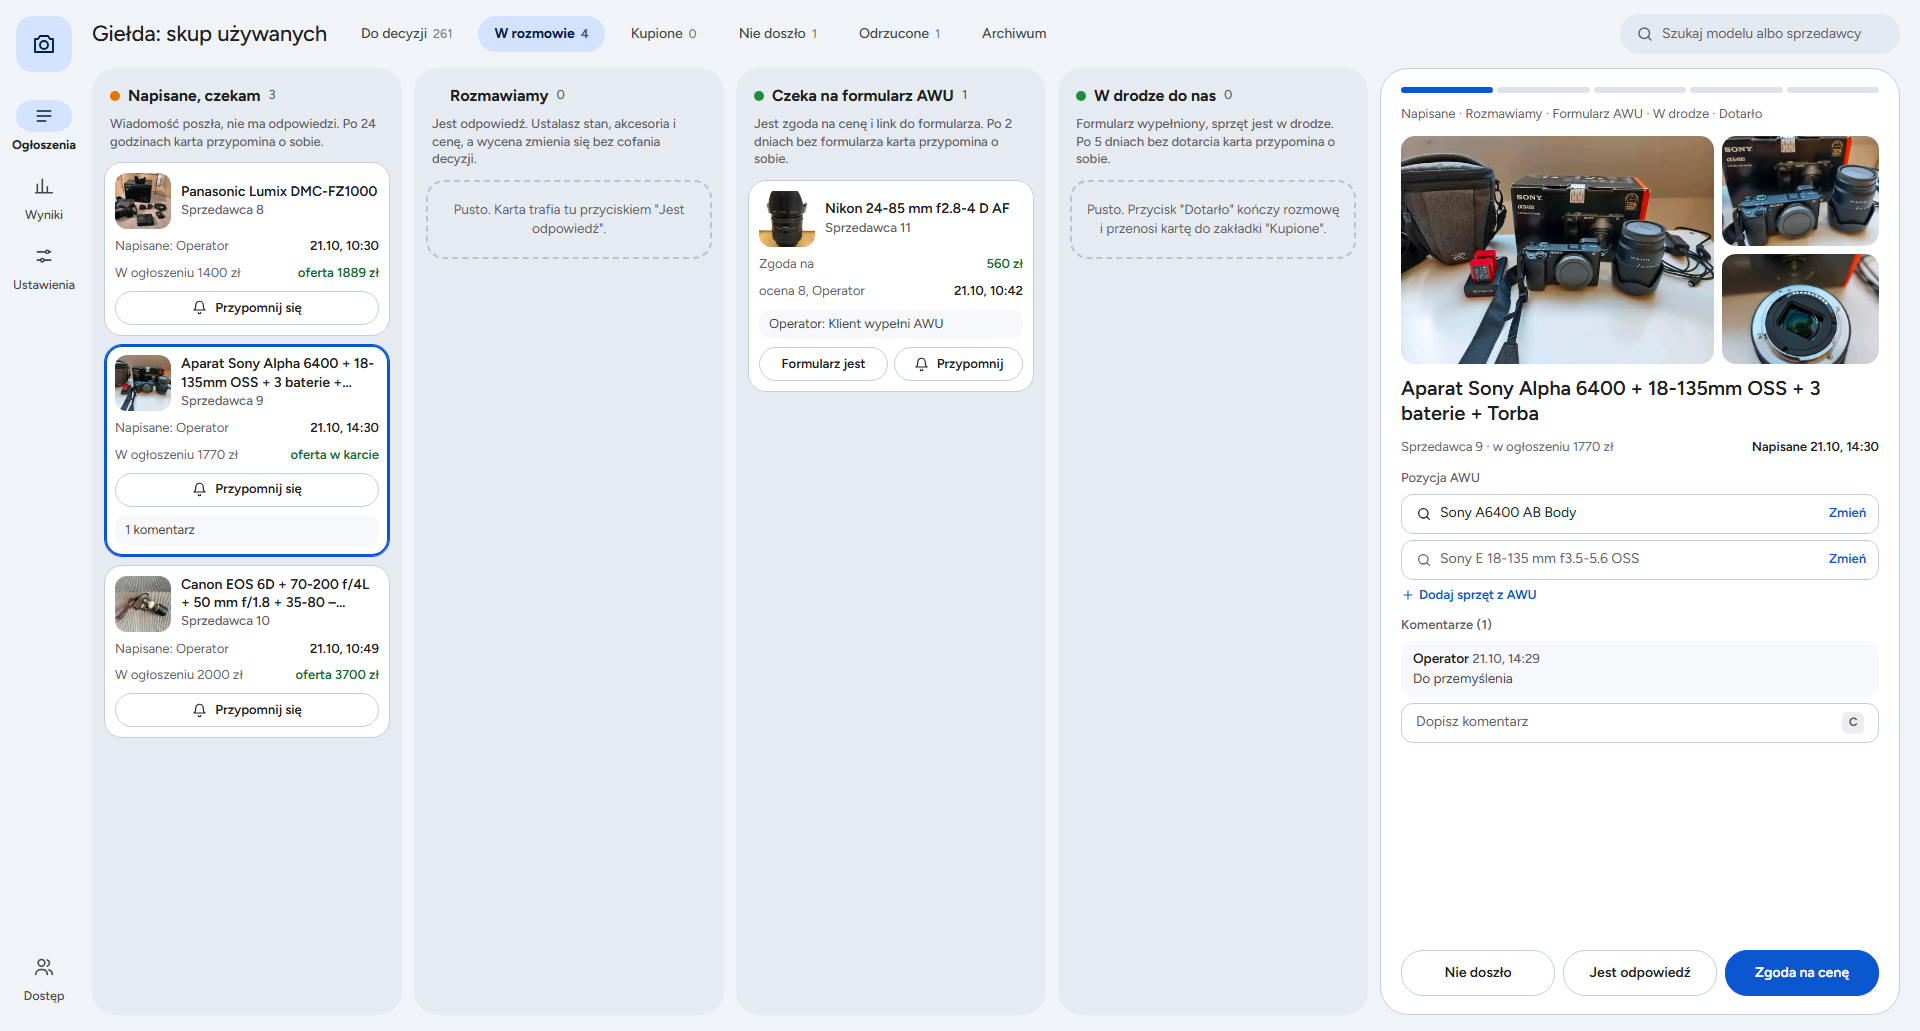
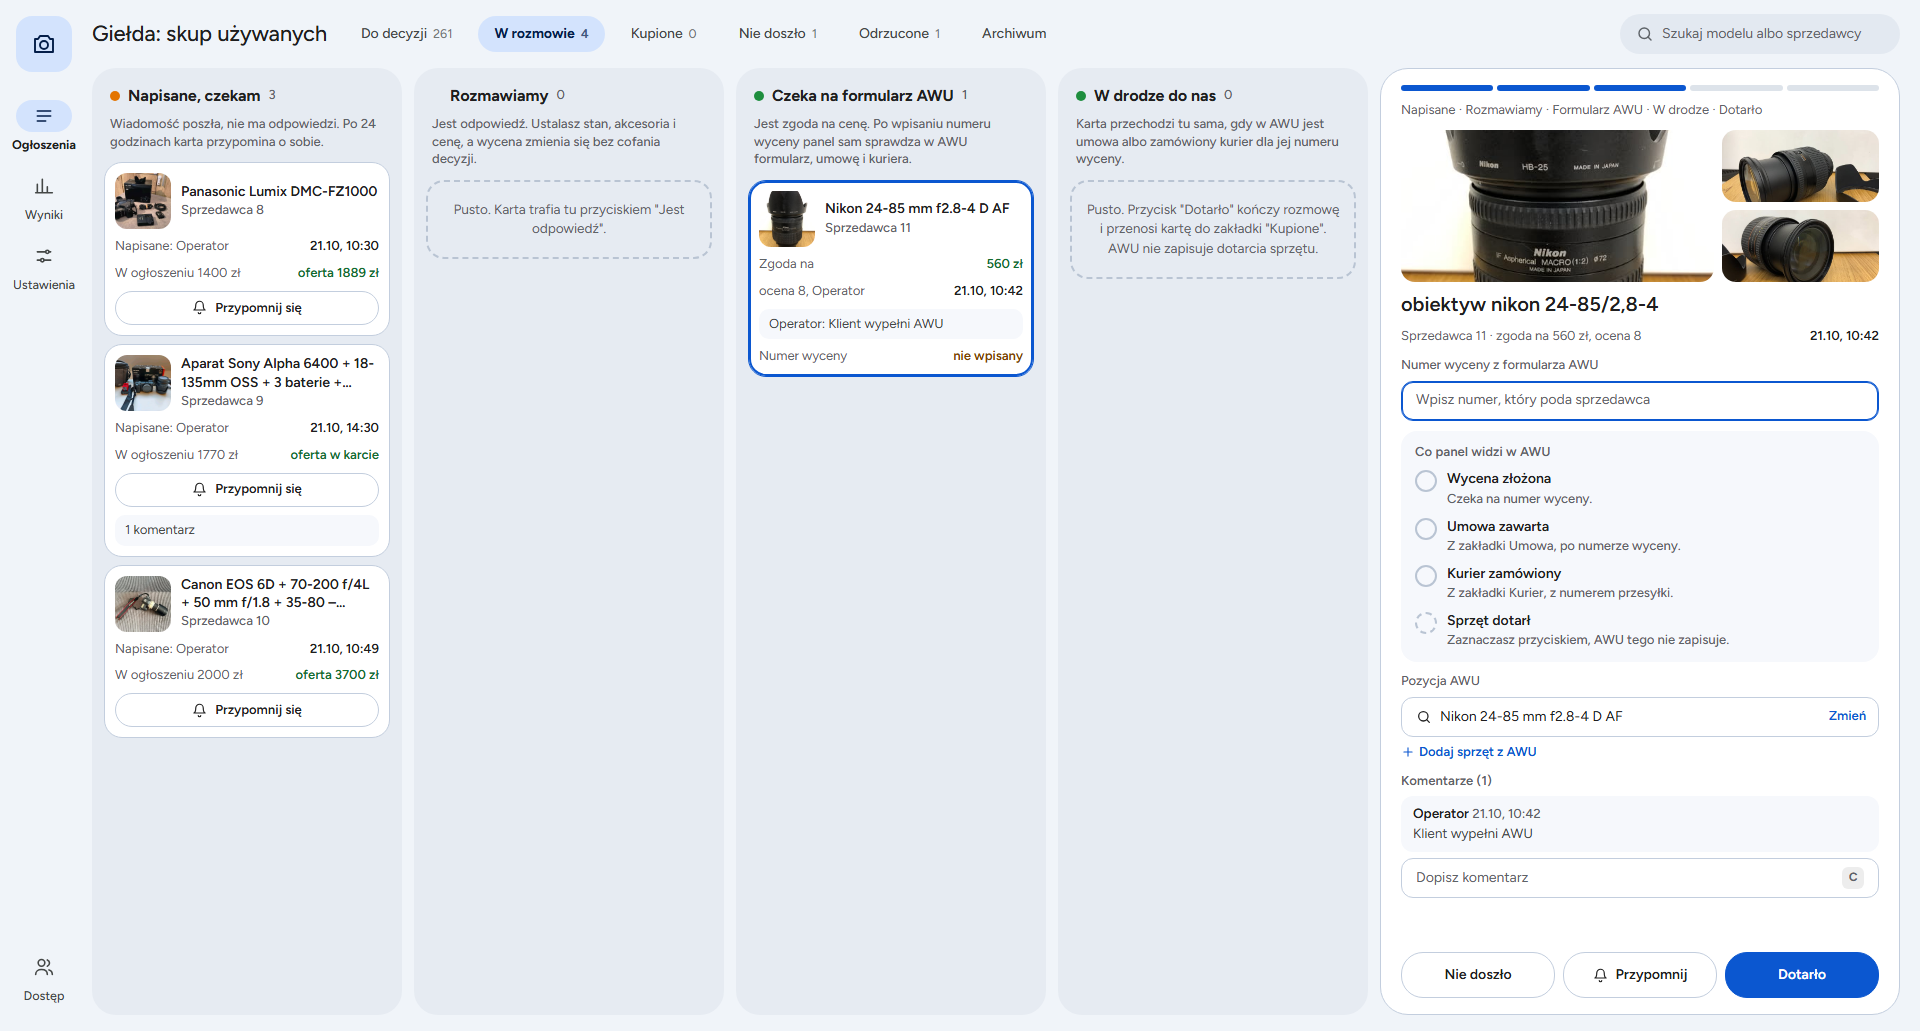
W rozmowie: numer wyceny w karcie i etapy odczytywane z AWU

diff --git a/R.html b/R.html
@@ -60,10 +60,14 @@ img{display:block;object-fit:cover}
 .kb-a{display:flex;gap:6px}.kb-a .btn{height:34px;font-size:13px;padding:0 10px;flex:1}
 .kb-k{font-size:13px;color:var(--t2);background:#F6F8FC;border-radius:10px;padding:6px 10px}
 .pus{border:2px dashed #B9C4D3;border-radius:18px;padding:18px 14px;text-align:center;color:var(--t3);font-size:13.5px;line-height:1.45}
-.szk{padding:18px 20px;display:flex;flex-direction:column;gap:12px;min-height:0}
-.szk .g2{display:grid;grid-template-columns:2fr 1fr;grid-template-rows:110px 110px;gap:8px}.szk .g2 img{width:100%;height:100%;border-radius:14px}.szk .g2 img:first-child{grid-row:1/3}
+.szk{padding:16px 20px;display:flex;flex-direction:column;gap:10px;min-height:0}
+.szk .g2{display:grid;grid-template-columns:2fr 1fr;grid-template-rows:72px 72px;gap:8px}.szk .g2 img{width:100%;height:100%;border-radius:14px}.szk .g2 img:first-child{grid-row:1/3}
 .szk h2{font-size:20px;font-weight:600;line-height:1.25}
 .etap{display:flex;gap:4px}.etap span{flex:1;height:6px;border-radius:3px;background:#DDE3EA}.etap span.on{background:var(--b)}
+.nw{display:flex;flex-direction:column;gap:6px}.nw .pole{border-color:var(--b);box-shadow:0 0 0 1px var(--b) inset;color:var(--t3)}
+.kaw{display:flex;flex-direction:column;gap:8px;padding:12px 14px;border-radius:16px;background:#F6F8FC}
+.ka{display:grid;grid-template-columns:22px 1fr;gap:10px;align-items:start}.ka b{font-weight:600;font-size:14px}
+.ka-i{width:22px;height:22px;border-radius:50%;border:2px solid #B9C4D3;display:grid;place-items:center;margin-top:1px}.ka-i.ok{background:var(--gj);border-color:var(--gj);color:var(--g)}.ka-i.r{border-style:dashed}
 .szk .akcje{margin-top:auto;display:grid;grid-template-columns:1fr 1fr 1fr;gap:8px}.szk .akcje .btn{height:46px;font-size:14px;padding:0 10px}
 </style></head><body><nav class="szyna"><div class="logo"><svg width="24" height="24" viewBox="0 0 24 24" fill="none" stroke="currentColor" stroke-width="1.9" stroke-linecap="round" stroke-linejoin="round"><path d="M3 7h3l2-3h8l2 3h3v13H3z"/><circle cx="12" cy="13" r="4"/></svg></div>
 <div class="sz on"><i><svg width="20" height="20" viewBox="0 0 24 24" fill="none" stroke="currentColor" stroke-width="1.9" stroke-linecap="round" stroke-linejoin="round"><path d="M4 6h16M4 12h16M4 18h10"/></svg></i>Ogłoszenia</div><div class="sz"><i><svg width="20" height="20" viewBox="0 0 24 24" fill="none" stroke="currentColor" stroke-width="1.9" stroke-linecap="round" stroke-linejoin="round"><path d="M4 20V10M10 20V4M16 20v-7M22 20H2"/></svg></i>Wyniki</div><div class="sz"><i><svg width="20" height="20" viewBox="0 0 24 24" fill="none" stroke="currentColor" stroke-width="1.9" stroke-linecap="round" stroke-linejoin="round"><path d="M4 7h10M18 7h2M4 17h4M12 17h8"/><circle cx="16" cy="7" r="2"/><circle cx="10" cy="17" r="2"/></svg></i>Ustawienia</div>
@@ -74,22 +78,29 @@ img{display:block;object-fit:cover}
 <div class="uk">
  <div class="tab">
  <section class="kol"><div class="kol-g"><span class="dot w"></span><b>Napisane, czekam</b><span class="k13">3</span></div><div class="k13 kol-o">Wiadomość poszła, nie ma odpowiedzi. Po 24 godzinach karta przypomina o sobie.</div><div class="kol-c"><div class="kb"><div class="kb-g"><img src="img/29514394138163940_0.jpg" alt=""><div class="kb-t"><div class="kb-n">Panasonic Lumix DMC-FZ1000</div>
-<div class="k13 ell">Sprzedawca 8</div></div></div><div class="kb-l"><span>Napisane: Operator</span><b>21.10, 10:30</b></div><div class="kb-l"><span>W ogłoszeniu 1400 zł</span><b class="g">oferta 1889 zł</b></div><div class="kb-a"><span class="btn"><svg width="15" height="15" viewBox="0 0 24 24" fill="none" stroke="currentColor" stroke-width="1.9" stroke-linecap="round" stroke-linejoin="round"><path d="M6 8a6 6 0 1 1 12 0c0 7 3 8 3 8H3s3-1 3-8M10 20a2 2 0 0 0 4 0"/></svg> Przypomnij się</span></div></div><div class="kb on"><div class="kb-g"><img src="img/29453777500892271_0.jpg" alt=""><div class="kb-t"><div class="kb-n">Aparat Sony Alpha 6400 + 18-135mm OSS + 3 baterie + Torba</div>
+<div class="k13 ell">Sprzedawca 8</div></div></div><div class="kb-l"><span>Napisane: Operator</span><b>21.10, 10:30</b></div><div class="kb-l"><span>W ogłoszeniu 1400 zł</span><b class="g">oferta 1889 zł</b></div><div class="kb-a"><span class="btn"><svg width="15" height="15" viewBox="0 0 24 24" fill="none" stroke="currentColor" stroke-width="1.9" stroke-linecap="round" stroke-linejoin="round"><path d="M6 8a6 6 0 1 1 12 0c0 7 3 8 3 8H3s3-1 3-8M10 20a2 2 0 0 0 4 0"/></svg> Przypomnij się</span></div></div><div class="kb"><div class="kb-g"><img src="img/29453777500892271_0.jpg" alt=""><div class="kb-t"><div class="kb-n">Aparat Sony Alpha 6400 + 18-135mm OSS + 3 baterie + Torba</div>
 <div class="k13 ell">Sprzedawca 9</div></div></div><div class="kb-l"><span>Napisane: Operator</span><b>21.10, 14:30</b></div><div class="kb-l"><span>W ogłoszeniu 1770 zł</span><b class="g">oferta w karcie</b></div><div class="kb-a"><span class="btn"><svg width="15" height="15" viewBox="0 0 24 24" fill="none" stroke="currentColor" stroke-width="1.9" stroke-linecap="round" stroke-linejoin="round"><path d="M6 8a6 6 0 1 1 12 0c0 7 3 8 3 8H3s3-1 3-8M10 20a2 2 0 0 0 4 0"/></svg> Przypomnij się</span></div><div class="kb-k">1 komentarz</div></div><div class="kb"><div class="kb-g"><img src="img/29579214825015204_0.jpg" alt=""><div class="kb-t"><div class="kb-n">Canon EOS 6D + 70-200 f/4L + 50 mm f/1.8 + 35-80 – kompletny zestaw pełnoklatkowy</div>
 <div class="k13 ell">Sprzedawca 10</div></div></div><div class="kb-l"><span>Napisane: Operator</span><b>21.10, 10:49</b></div><div class="kb-l"><span>W ogłoszeniu 2000 zł</span><b class="g">oferta 3700 zł</b></div><div class="kb-a"><span class="btn"><svg width="15" height="15" viewBox="0 0 24 24" fill="none" stroke="currentColor" stroke-width="1.9" stroke-linecap="round" stroke-linejoin="round"><path d="M6 8a6 6 0 1 1 12 0c0 7 3 8 3 8H3s3-1 3-8M10 20a2 2 0 0 0 4 0"/></svg> Przypomnij się</span></div></div></div></section>
  <section class="kol"><div class="kol-g"><span class="dot bl"></span><b>Rozmawiamy</b><span class="k13">0</span></div><div class="k13 kol-o">Jest odpowiedź. Ustalasz stan, akcesoria i cenę, a wycena zmienia się bez cofania decyzji.</div><div class="kol-c"><div class="pus">Pusto. Karta trafia tu przyciskiem "Jest odpowiedź".</div></div></section>
- <section class="kol"><div class="kol-g"><span class="dot g"></span><b>Czeka na formularz AWU</b><span class="k13">1</span></div><div class="k13 kol-o">Jest zgoda na cenę i link do formularza. Po 2 dniach bez formularza karta przypomina o sobie.</div><div class="kol-c"><div class="kb"><div class="kb-g"><img src="img/29579853288284691_0.jpg" alt=""><div class="kb-t"><div class="kb-n">Nikon 24-85 mm f2.8-4 D AF</div>
-<div class="k13 ell">Sprzedawca 11</div></div></div><div class="kb-l"><span>Zgoda na</span><b class="g">560 zł</b></div><div class="kb-l"><span>ocena 8, Operator</span><b>21.10, 10:42</b></div><div class="kb-k">Operator: Klient wypełni AWU</div><div class="kb-a"><span class="btn">Formularz jest</span><span class="btn"><svg width="15" height="15" viewBox="0 0 24 24" fill="none" stroke="currentColor" stroke-width="1.9" stroke-linecap="round" stroke-linejoin="round"><path d="M6 8a6 6 0 1 1 12 0c0 7 3 8 3 8H3s3-1 3-8M10 20a2 2 0 0 0 4 0"/></svg> Przypomnij</span></div></div></div></section>
- <section class="kol"><div class="kol-g"><span class="dot g"></span><b>W drodze do nas</b><span class="k13">0</span></div><div class="k13 kol-o">Formularz wypełniony, sprzęt jest w drodze. Po 5 dniach bez dotarcia karta przypomina o sobie.</div><div class="kol-c"><div class="pus">Pusto. Przycisk "Dotarło" kończy rozmowę i przenosi kartę do zakładki "Kupione".</div></div></section>
+ <section class="kol"><div class="kol-g"><span class="dot g"></span><b>Czeka na formularz AWU</b><span class="k13">1</span></div><div class="k13 kol-o">Jest zgoda na cenę. Po wpisaniu numeru wyceny panel sam sprawdza w AWU formularz, umowę i kuriera.</div><div class="kol-c"><div class="kb on"><div class="kb-g"><img src="img/29579853288284691_0.jpg" alt=""><div class="kb-t"><div class="kb-n">Nikon 24-85 mm f2.8-4 D AF</div>
+<div class="k13 ell">Sprzedawca 11</div></div></div><div class="kb-l"><span>Zgoda na</span><b class="g">560 zł</b></div><div class="kb-l"><span>ocena 8, Operator</span><b>21.10, 10:42</b></div><div class="kb-k">Operator: Klient wypełni AWU</div><div class="kb-l"><span>Numer wyceny</span><b class="w">nie wpisany</b></div></div></div></section>
+ <section class="kol"><div class="kol-g"><span class="dot g"></span><b>W drodze do nas</b><span class="k13">0</span></div><div class="k13 kol-o">Karta przechodzi tu sama, gdy w AWU jest umowa albo zamówiony kurier dla jej numeru wyceny.</div><div class="kol-c"><div class="pus">Pusto. Przycisk "Dotarło" kończy rozmowę i przenosi kartę do zakładki "Kupione". AWU nie zapisuje dotarcia sprzętu.</div></div></section>
  </div>
  <section class="karta szk">
-  <div class="etap"><span class="on"></span><span class=""></span><span class=""></span><span class=""></span><span class=""></span></div>
+  <div class="etap"><span class="on"></span><span class="on"></span><span class="on"></span><span class=""></span><span class=""></span></div>
   <div class="kb-l"><span>Napisane · Rozmawiamy · Formularz AWU · W drodze · Dotarło</span></div>
-  <div class="g2"><img src="img/29453777500892271_0.jpg" alt=""><img src="img/29453777500892271_1.jpg" alt=""><img src="img/29453777500892271_2.jpg" alt=""></div>
-  <h2>Aparat Sony Alpha 6400 + 18-135mm OSS + 3 baterie + Torba</h2>
-  <div class="kb-l"><span>Sprzedawca 9 · w ogłoszeniu 1770 zł</span><b>Napisane 21.10, 14:30</b></div>
-  <div class="poz"><span class="k13">Pozycja AWU</span><div class="pole"><svg width="16" height="16" viewBox="0 0 24 24" fill="none" stroke="currentColor" stroke-width="1.9" stroke-linecap="round" stroke-linejoin="round"><circle cx="11" cy="11" r="7"/><path d="m20 20-4-4"/></svg><span class="ell">Sony A6400 AB Body</span><span class="zm">Zmień</span></div><div class="pole" style="color:var(--t3)"><svg width="16" height="16" viewBox="0 0 24 24" fill="none" stroke="currentColor" stroke-width="1.9" stroke-linecap="round" stroke-linejoin="round"><circle cx="11" cy="11" r="7"/><path d="m20 20-4-4"/></svg><span class="ell">Sony E 18-135 mm f3.5-5.6 OSS</span><span class="zm">Zmień</span></div><span class="dod"><svg width="14" height="14" viewBox="0 0 24 24" fill="none" stroke="currentColor" stroke-width="1.9" stroke-linecap="round" stroke-linejoin="round"><path d="M12 5v14M5 12h14"/></svg> Dodaj sprzęt z AWU</span></div>
-  <div class="komb"><span class="kick">Komentarze (1)</span><div class="kw"><b>Operator</b> <span class="k13">21.10, 14:29</span><div>Do przemyślenia</div></div><div class="kpole">Dopisz komentarz <span class="kl">C</span></div></div>
-  <div class="akcje"><span class="btn">Nie doszło</span><span class="btn">Jest odpowiedź</span><span class="btn p">Zgoda na cenę</span></div>
+  <div class="g2"><img src="img/29579853288284691_0.jpg" alt=""><img src="img/29579853288284691_1.jpg" alt=""><img src="img/29579853288284691_2.jpg" alt=""></div>
+  <h2>obiektyw nikon 24-85/2,8-4</h2>
+  <div class="kb-l"><span>Sprzedawca 11 · zgoda na 560 zł, ocena 8</span><b>21.10, 10:42</b></div>
+  <div class="nw"><span class="k13">Numer wyceny z formularza AWU</span><div class="pole">Wpisz numer, który poda sprzedawca</div></div>
+  <div class="kaw"><span class="kick">Co panel widzi w AWU</span>
+   <div class="ka"><span class="ka-i "></span><div><b>Wycena złożona</b><div class="k13">Czeka na numer wyceny.</div></div></div>
+   <div class="ka"><span class="ka-i "></span><div><b>Umowa zawarta</b><div class="k13">Z zakładki Umowa, po numerze wyceny.</div></div></div>
+   <div class="ka"><span class="ka-i "></span><div><b>Kurier zamówiony</b><div class="k13">Z zakładki Kurier, z numerem przesyłki.</div></div></div>
+   <div class="ka"><span class="ka-i r"></span><div><b>Sprzęt dotarł</b><div class="k13">Zaznaczasz przyciskiem, AWU tego nie zapisuje.</div></div></div>
+  </div>
+  <div class="poz"><span class="k13">Pozycja AWU</span><div class="pole"><svg width="16" height="16" viewBox="0 0 24 24" fill="none" stroke="currentColor" stroke-width="1.9" stroke-linecap="round" stroke-linejoin="round"><circle cx="11" cy="11" r="7"/><path d="m20 20-4-4"/></svg><span class="ell">Nikon 24-85 mm f2.8-4 D AF</span><span class="zm">Zmień</span></div><span class="dod"><svg width="14" height="14" viewBox="0 0 24 24" fill="none" stroke="currentColor" stroke-width="1.9" stroke-linecap="round" stroke-linejoin="round"><path d="M12 5v14M5 12h14"/></svg> Dodaj sprzęt z AWU</span></div>
+  <div class="komb"><span class="kick">Komentarze (1)</span><div class="kw"><b>Operator</b> <span class="k13">21.10, 10:42</span><div>Klient wypełni AWU</div></div><div class="kpole">Dopisz komentarz <span class="kl">C</span></div></div>
+  <div class="akcje"><span class="btn">Nie doszło</span><span class="btn"><svg width="15" height="15" viewBox="0 0 24 24" fill="none" stroke="currentColor" stroke-width="1.9" stroke-linecap="round" stroke-linejoin="round"><path d="M6 8a6 6 0 1 1 12 0c0 7 3 8 3 8H3s3-1 3-8M10 20a2 2 0 0 0 4 0"/></svg> Przypomnij</span><span class="btn p">Dotarło</span></div>
  </section>
 </div></main></body></html>

diff --git a/index.html b/index.html
@@ -91,7 +91,9 @@ ol.z b{font-weight:700}
 <li><b>Komentarze i zmiana produktu zostają w każdym miejscu.</b> W "Do decyzji" i w każdej karcie rozmowy jest pole pozycji AWU z przyciskiem "Zmień" i "Dodaj sprzęt z AWU" oraz komentarze, tak jak w panelu od 21.10.</li>
 <li><b>Rozmowa nie kończy się na zgodzie na cenę.</b> Po "Zgoda na cenę" karta przechodzi do kolumny "Czeka na formularz AWU", potem do "W drodze do nas". Przycisk "Dotarło" zamyka rozmowę i przenosi kartę do zakładki "Kupione".</li>
 <li><b>Panel sam przypomina o kartach, które stoją.</b> Brak odpowiedzi po 24 godzinach, brak formularza po 2 dniach, brak przesyłki po 5 dniach. Terminy są do ustalenia.</li>
-<li><b>Do ustalenia z kierownikiem działu:</b> czy panel może sam zobaczyć wypełniony formularz w AWU i dotarcie przesyłki, oraz na którym etapie kończy się praca osoby z giełdą, a zaczyna praca działu.</li>
+<li><b>Etapy po zgodzie na cenę panel odczytuje sam.</b> Osoba ze skupu wpisuje w karcie numer wyceny, który poda sprzedawca. Panel szuka go w arkuszu, do którego AWU zapisuje wyceny, umowy i zamówienia kuriera, i sam zaznacza: wycena złożona, umowa zawarta, kurier zamówiony z numerem przesyłki. Wtedy karta przechodzi do kolumny "W drodze do nas".</li>
+<li><b>Dotarcie sprzętu zaznacza się przyciskiem.</b> AWU nie zapisuje, że przesyłka do nas dotarła. Od 1.11.2026 AWU zastępuje system B2H, w którym magazyn potwierdza przyjęcie sprzętu, więc ten etap da się potem odczytać z B2H.</li>
+<li><b>Do ustalenia z kierownikiem działu:</b> na którym etapie kończy się praca osoby z giełdą, a zaczyna praca działu.</li>
 </ul>
 <p><a href="R.html" style="color:var(--b);font-weight:600">Otwórz widok "W rozmowie" w pełnym rozmiarze</a> · <a href="A.html" style="color:var(--b);font-weight:600">Otwórz "Do decyzji"</a></p>
 <div class="zrz"><img src="R.png" alt="Zakładka W rozmowie: cztery etapy od wiadomości do przesyłki i otwarta karta z pozycją AWU i komentarzami"></div>
